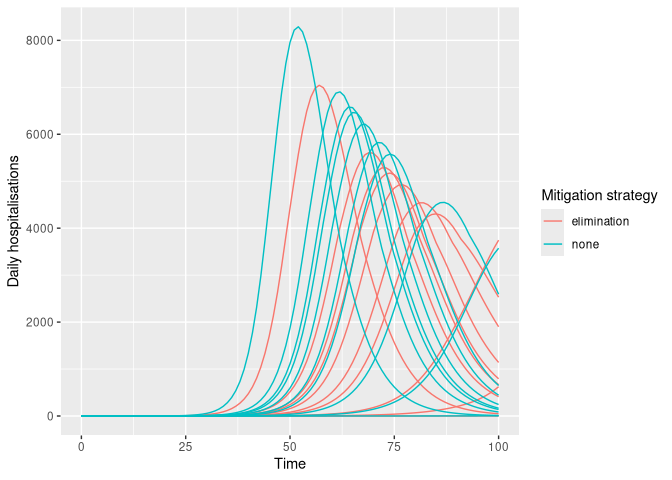
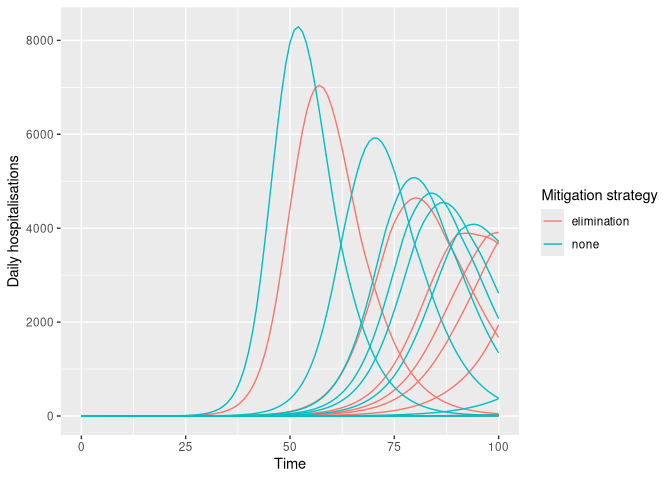
Update DESCRIPTION, NEWS, and Readmes

Changed region(s): [[0.3438, 0.1875, 0.75, 0.875]]

diff --git a/NEWS.md b/NEWS.md
@@ -1,5 +1,16 @@
 # daedalus.compare 0.0.1
 
+This is the first version of _daedalus.compare_ and adds:
+
+1. A scenario-runner function `run_scenarios()` that wraps around `daedalus::daedalus_rtm()` and allows running multiple scenarios of pandemic mitigation responses with uncertainty in the infection parameters.
+
+2. Multiple functions downstream of `run_scenarios()` that help get data from scenarios in formats suitable for plotting or summarisation:
+`get_epicurve_data()`, `get_summary_data()`, `get_cost_data()`, and `get_econ_cost_data()`.
+
+3. Helper functions and constants: `ci()`, `make_infection_samples()`, and `NAMES_VECTOR_INF_PARAMS`.
+
+4. Basic tests and function documentation.
+
 * This project now includes a
    [`NEWS.md`](https://r-pkgs.org/other-markdown.html#sec-news) file to inform
    users about changes and new features.

diff --git a/README.md b/README.md
@@ -53,9 +53,9 @@ present.
 
 ``` r
 library(daedalus.compare)
-#> Loading required package: daedalus
 
 # make list of infection objects with R0 of 1.0 -- 2.0 with skewed distribution
+set.seed(1) # for reproducible results
 infection_list <- make_infection_samples(
   "influenza_2009",
   param_distributions = list(